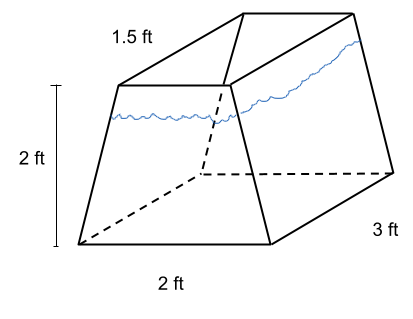
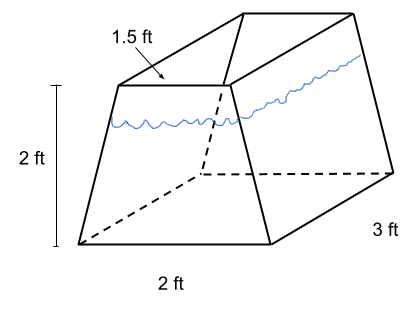
add a li'l arrow to trapezoid tank

diff --git a/Boelkins/checkpoint-A5.tex b/Boelkins/checkpoint-A5.tex
@@ -46,14 +46,16 @@ As usual, the weight density of water is 62.4 pounds per cubic foot.
 
 \begin{enumerate}[(a), leftmargin=15pt]
 
-	\item \emph{Determine the total amount of hydrostatic force on one of the flat ends of the tank}. Draw a slice, label it carefully, and show your work to write down the appropriate definite integral.
+	\item \emph{Determine the total amount of hydrostatic force on one of the flat ends of the tank}. \\
+	Draw a slice, label it carefully, and show your work to write down the appropriate definite integral.
 	Remember, in American units, pressure is 62.4 times water depth.
 
 \hfill \scalebox{0.5}{\includegraphics{images/trapezoid-tank}}
 
 \vfill
 
-	\item \emph{Find the total amount of work that would be required to pump all the water out of the tank}.  Draw a slice, label it carefully, and show your work to write down the appropriate definite integral. Remember, in American units, ``pounds'' is a force.
+	\item \emph{Find the total amount of work that would be required to pump all the water out of the tank}.  \\
+	Draw a slice, label it carefully, and show your work to write down the appropriate definite integral. Remember, in American units, ``pounds'' is a force.
 	
 \hfill \scalebox{0.5}{\includegraphics{images/trapezoid-tank}}
 
